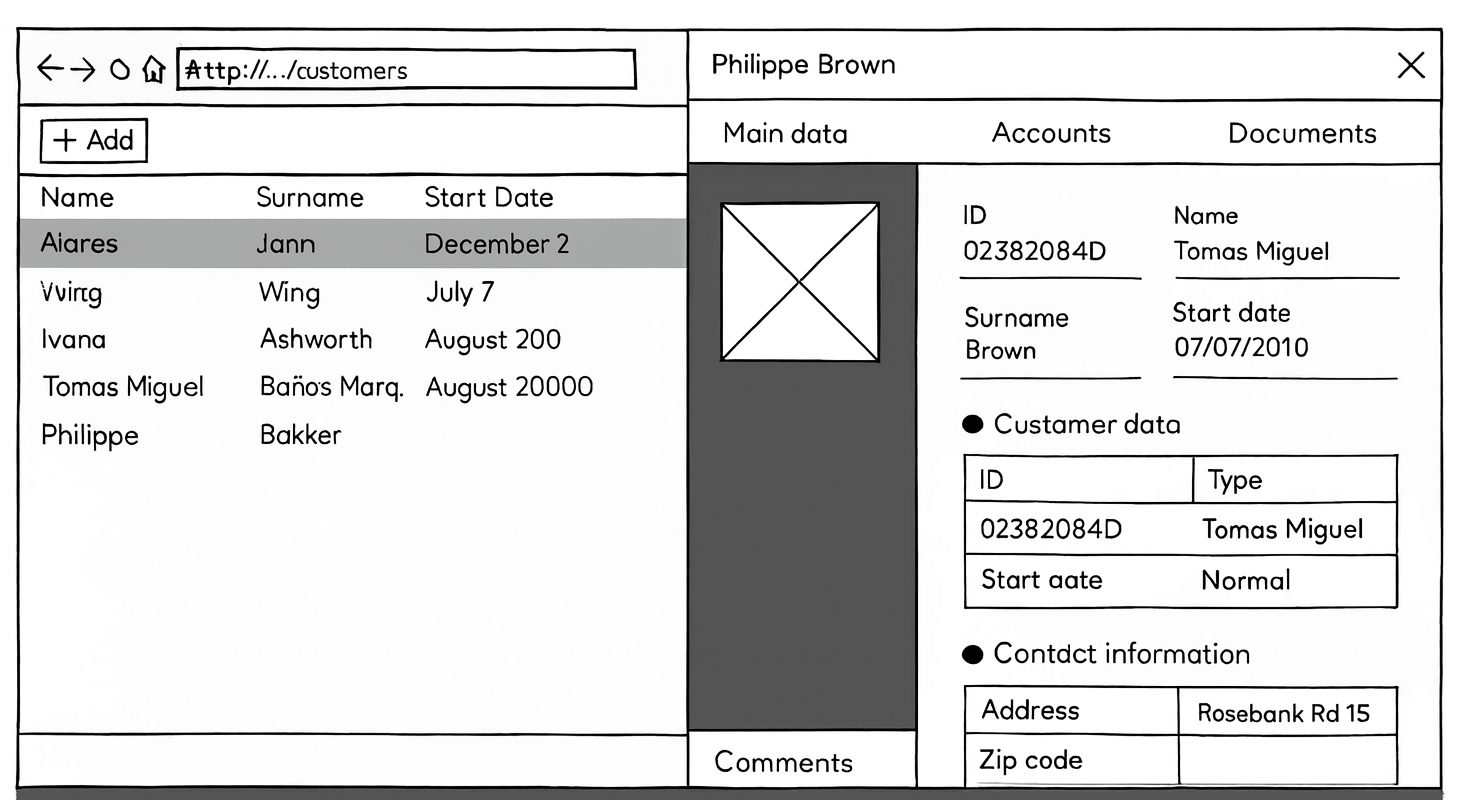
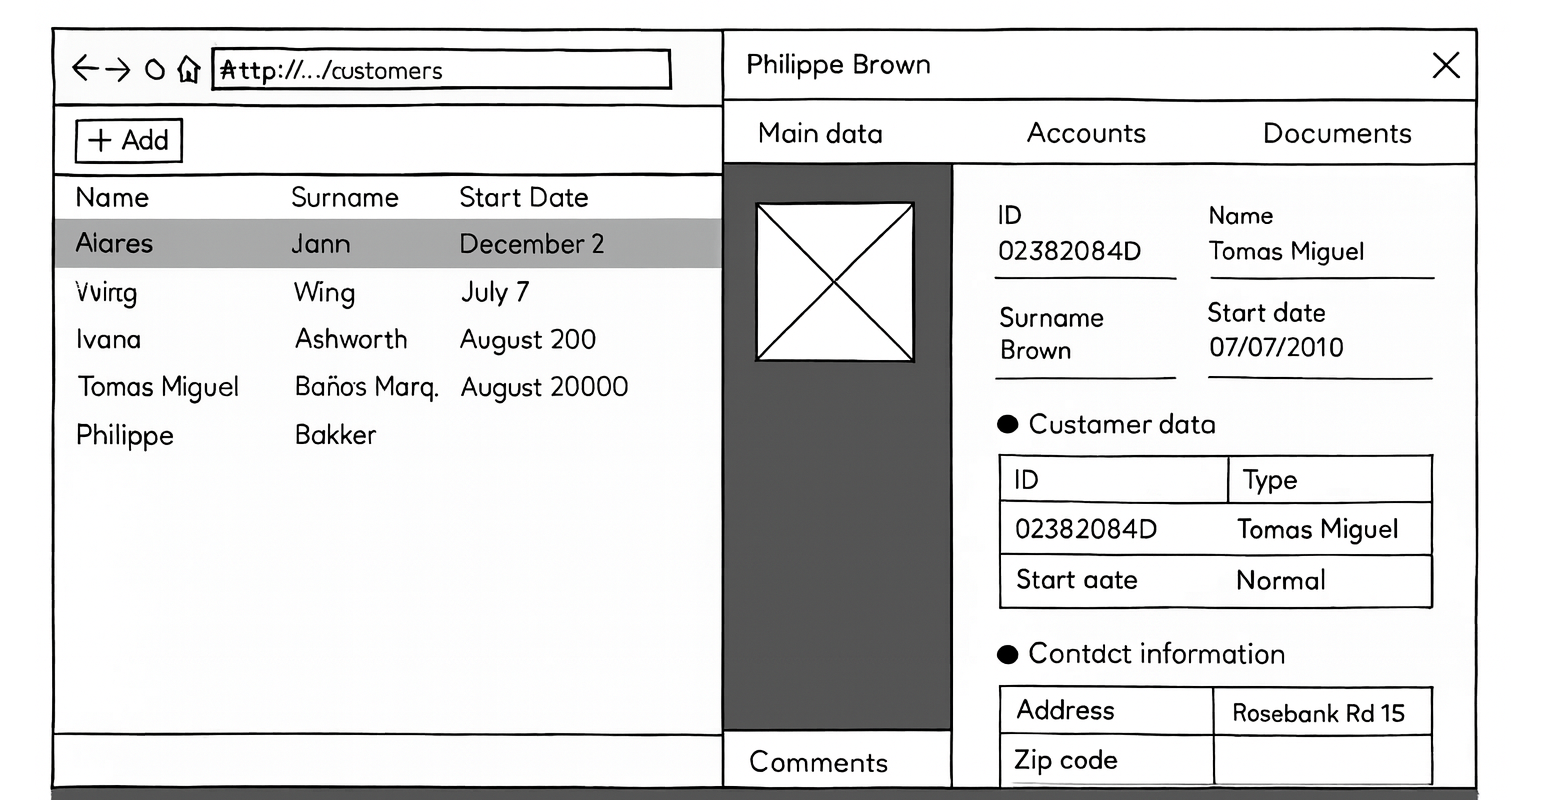
Updated image

diff --git a/docs/components/layout/57-o-form-layout-manager.component.md b/docs/components/layout/57-o-form-layout-manager.component.md
@@ -114,7 +114,7 @@ This mode is especially useful when you want a modern master–detail interactio
 
 You can select this mode setting the value **sidenav** to the `mode` input. You can see a working example of this mode in the [OntimizeWeb Playground](https://try.imatia.com/ontimizeweb/v15/playground/main/layout-manager/sidenav){:target="_blank"}.
 
-![Form layout manager in *sidenav* mode]({{ base_path }}/assets/images/layouts/form-layout-manager/formLayoutManagerSIDENAV.png){: .align-center}
+![Form layout manager in *sidenav* mode]({{ base_path }}/assets/images/layouts/form-layout-manager/formLayoutManagerSIDENAV.png){: .align-center; width="800px"}
 
 ---
 
@@ -158,4 +158,4 @@ The different available modes options can be setted in two ways: using the mode 
     ...
 
   </o-form-layout-manager>
-``
+```
